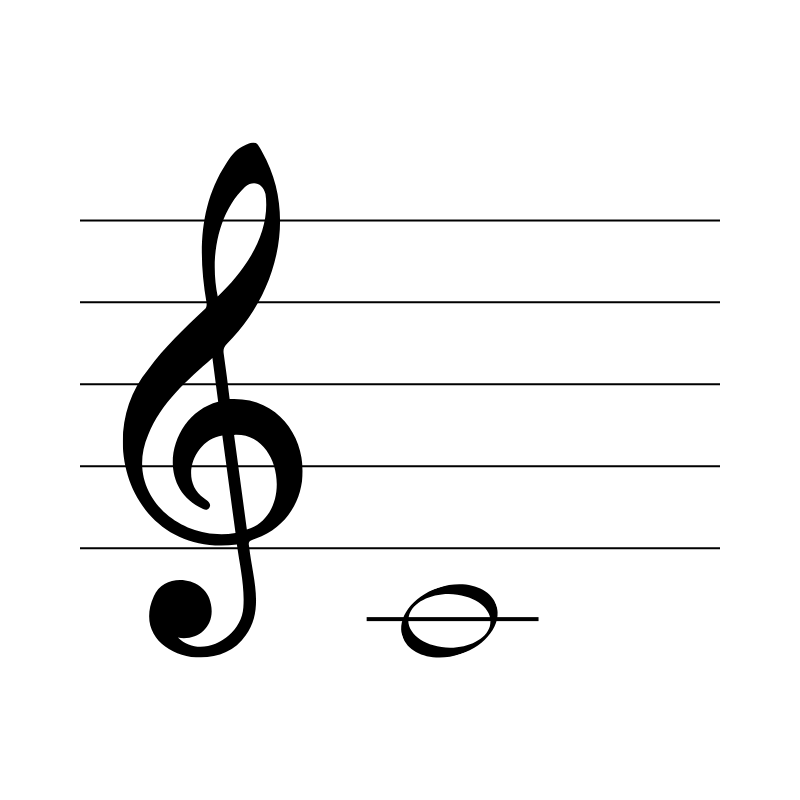
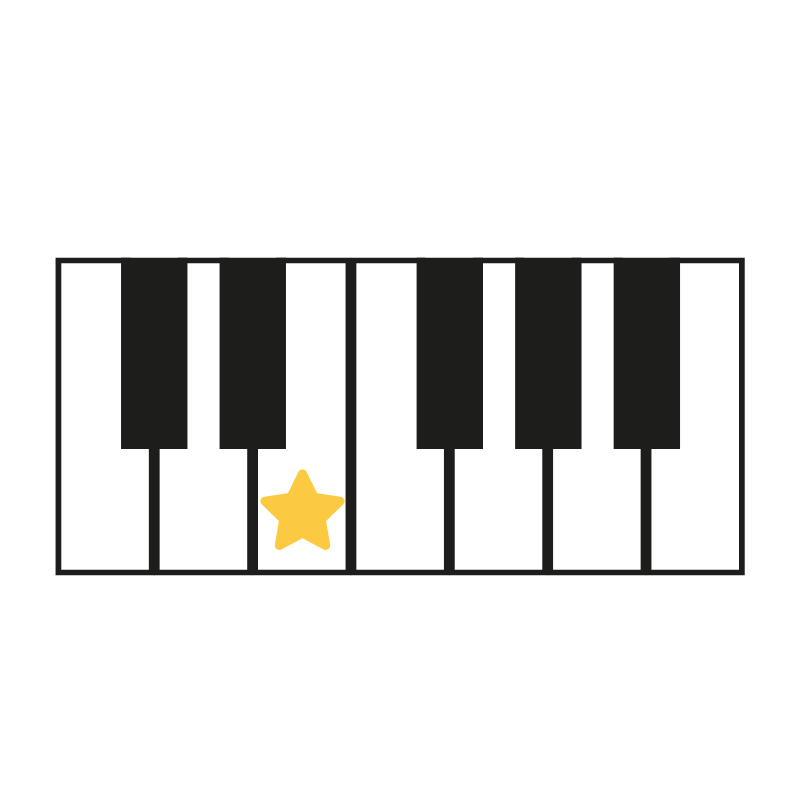
update

Changed region(s): [[0.0625, 0.1562, 0.9375, 0.8438]]

diff --git a/service-worker.js b/service-worker.js
@@ -1,4 +1,4 @@
-const CACHE_NAME = "missao-musica-v23";
+const CACHE_NAME = "missao-musica-v24";
 
 const FILES_TO_CACHE = [
   "./",
